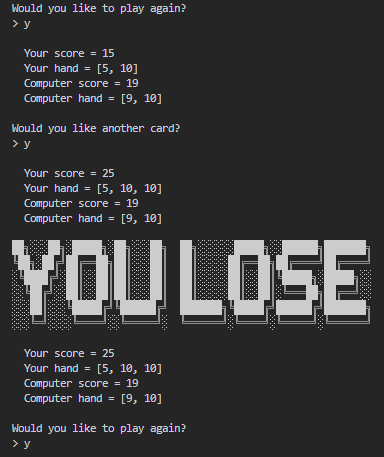
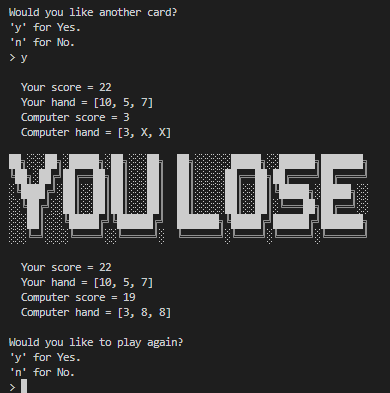
Add docstrings, conditions for determining winner converted to function, add element to print screens allowing users to only see the dealers first card, add new screenshots to documentation.

Changed region(s): [[0.0, 0.0, 0.9688, 1.0]]

diff --git a/day011_blackjack/main.py b/day011_blackjack/main.py
@@ -3,16 +3,15 @@ import os
 from art import logo, win_ascii, lose_ascii, draw_ascii 
 
 def blackjack():
-    """
-    Summary: 
+    """ 
     Blackjack game with player and computer randomly dealt two cards. 
-    Player is prompt for additonal card dealings and summary of current hand, 
-    computer hand, and current scores.  
+    Player is prompted for additonal card dealings and summary of current hand, 
+    computer hand, and current score.  
     """
     
     os.system("cls" if os.name == "nt" else "clear")
 
-    play = input(f"{logo}Would you like to play? \n> ").lower().strip()
+    play = input(f"{logo}Would you like to play? \n'y' for Yes. \n'n' for No. \n> ").lower().strip()
 
     while play == 'y':
             
@@ -25,7 +24,6 @@ def blackjack():
             
             Args:
                 hand (list): Any assortment of integers representing cards.
-                deck (list): Complete list of cards/integers within deck to draw from.
 
             Returns:
                 list: Current hand with addition of one randomly drawn card.
@@ -58,97 +56,105 @@ def blackjack():
         
         while player_score > 0:
             
-            prompt1 = f"\n  Your score = {player_score} \n  Your hand = {player_hand} \n  Computer score = {computer_score} \n  Computer hand = {computer_hand}"
-            print(prompt1)
+            masked_prompt = f"\n  Your score = {player_score} \n  Your hand = {player_hand} \n  Computer score = {computer_hand[0]} \n  Computer hand = [{str(computer_hand[0])}{((len(computer_hand) - 1) * ', X')}]"
+            unmasked_prompt = f"\n  Your score = {player_score} \n  Your hand = {player_hand} \n  Computer score = {computer_score} \n  Computer hand = {computer_hand}"
+            print(masked_prompt)
+            
             
             def win_black():
                 """
                 Summary: Print 'BLACKJACK' and 'YOU WIN' logos. Prompt final scores, user and computer hand. 
                 """
                 print(logo, win_ascii)
-                print(prompt1)
+                print(unmasked_prompt)
             
             def user_lose():
                 """
                 Summary: Print 'YOU LOSE' logo. Prompt final scores, user and computer hand. 
                 """
                 print(lose_ascii)
-                print(prompt1)
+                print(unmasked_prompt)
             
             def user_win():
                 """
                 Summary: Print 'YOU WIN' logo. Prompt final scores, user and computer hand. 
                 """
                 print(win_ascii)
-                print(prompt1)
+                print(unmasked_prompt)
             
             def equal_hands():
                 """
                 Summary: Print 'DRAW' logo. Prompt final scores, user and computer hand. 
                 """
                 print(draw_ascii)
-                print(prompt1)
-        
-            if 11 in player_hand and 10 in player_hand and len(player_hand) == 2:
-                win_black()
-                break
-            elif player_score == 21 and computer_score == 21:
-                equal_hands()
-                break
-            elif player_score == 21: 
-                user_win()
-                break
-            elif computer_score == 21: 
-                user_lose()
-                break
-            elif player_score > 21:
-                if 11 in player_hand:
-                    player_hand[player_hand.index(11)] = 1
-                        
-                    player_score = hand_score(player_hand)
-                    if player_score > 21:
-                        user_lose()
-                        break
-                    elif player_score == 21: 
-                        user_win()
-                        break
+                print(unmasked_prompt)
+            
+            def determine_outcome(player_hand = player_hand, computer_hand = computer_hand, player_score = player_score, computer_score = computer_score):    
+                """
+                Determine if player has hit blackjack or bust.
+                """
+                if 11 in player_hand and 10 in player_hand and len(player_hand) == 2:
+                    win_black()
+                    return "break"
+                elif 11 in player_hand and 10 in player_hand and len(player_hand) == 2:
+                    lose_ascii
+                    return "break"
+                elif player_score > 21:
+                    if 11 in player_hand:
+                        player_hand[player_hand.index(11)] = 1
+                            
+                        player_score = hand_score(player_hand)
+                        if player_score > 21:
+                            user_lose()
+                            return "break"
+                        elif player_score == 21: 
+                            user_win()
+                            return "break"
+                    else:
+                        user_lose() 
+                        return "break"
+                elif computer_score > 21:
+                    if 11 in computer_hand:
+                        computer_hand[computer_hand.index(11)] = 1
+                            
+                        computer_score = hand_score(computer_hand)
+                        if computer_score > 21:            
+                            user_win()
+                            return "break"
+                        elif computer_score == 21:            
+                            user_lose()
+                            return "break"
+                        else:
+                            user_win()
+                            return "break"
                 else:
-                    user_lose() 
-                    break
-            elif computer_score > 21:
-                if 11 in computer_hand:
-                    computer_hand[computer_hand.index(11)] = 1
-                        
-                    computer_score = hand_score(computer_hand)
-                    if computer_score > 21:            
-                        user_win()
-                        break
-                    elif computer_score == 21:            
-                        user_lose()
-                        break
-                else:
-                    user_win()
-                    break
-            elif player_score < 21:      
-                deal = input("\nWould you like another card? \n> ").lower().strip()
-                if deal == "y":
-                    player_hand = deal_card(player_hand)
-                    player_score = hand_score(player_hand)
+                    return "continue"
+
+            if determine_outcome() == "break":
+                break
+            
+            deal = input("\nWould you like another card? \n'y' for Yes. \n'n' for No. \n> ").lower().strip()
+            
+            if deal == "y":
+                player_hand = deal_card(player_hand)
+                player_score = hand_score(player_hand)
                 if computer_score < 17:
                     computer_hand = deal_card(computer_hand)
-                    computer_score = hand_score(computer_hand) 
-                elif deal != "y":   
-                    if player_score < computer_score:
-                        user_lose()
-                        break
-                    elif player_score > computer_score:
-                        user_win()
-                        break
-                    else:
-                        equal_hands()
-                        break
-                                
-        play = input(f"\nWould you like to play again? \n> ").lower().strip()
+                    computer_score = hand_score(computer_hand)
+            else:
+                if determine_outcome() == "break":
+                    break
+                elif player_score == computer_score:
+                    equal_hands()
+                    break
+                elif player_score == 21 or player_score > computer_score: 
+                    user_win()
+                    break
+                elif computer_score == 21 or player_score < computer_score: 
+                    user_lose()
+                    break
+                
+        play = input(f"\nWould you like to play again? \n'y' for Yes. \n'n' for No. \n> ").lower().strip()
         
 if __name__ == "__main__":
     blackjack()

diff --git a/day011_blackjack/readme.md b/day011_blackjack/readme.md
@@ -12,13 +12,17 @@ This Python script is a digital version of the classic card game Blackjack, desi
 - Options to draw additional cards or hold.
 - Checks for winning, losing, or tie conditions.
 
-    ![](./images/welcome_screen_user_lose.png)
+    !["Gamplay: welcome screeen and user wins."](./images/welcome_screen_user_win.png)      ![Gamplay: welcome screeen and user loses.](./images/welcome_screen_user_lose.png)
 
-    ![](./images/user_lose_dealer_win.png)
 
-    ![](./images/user_win_ace_convert_to_1.png)
+    ![Gamplay: user wins by ace converted to 1.](./images/user_win_ace_convert_to_1.png)          ![Gamplay: user win by have higher card total.](./images/user_win.png)
 
-    ![](./images/user_win_dealer_bust.png)
+
+    ![Gamplay: user bust, dealer wins by remaining below 21.](./images/user_lose_dealer_win.png)     ![Gamplay: user wins through card total of 21.](./images/user_blackjack.png)
+
+
+    ![Gamplay: dealer and player total equal points.](./images/draw.png)
+
 
 
 ## System Requirements
